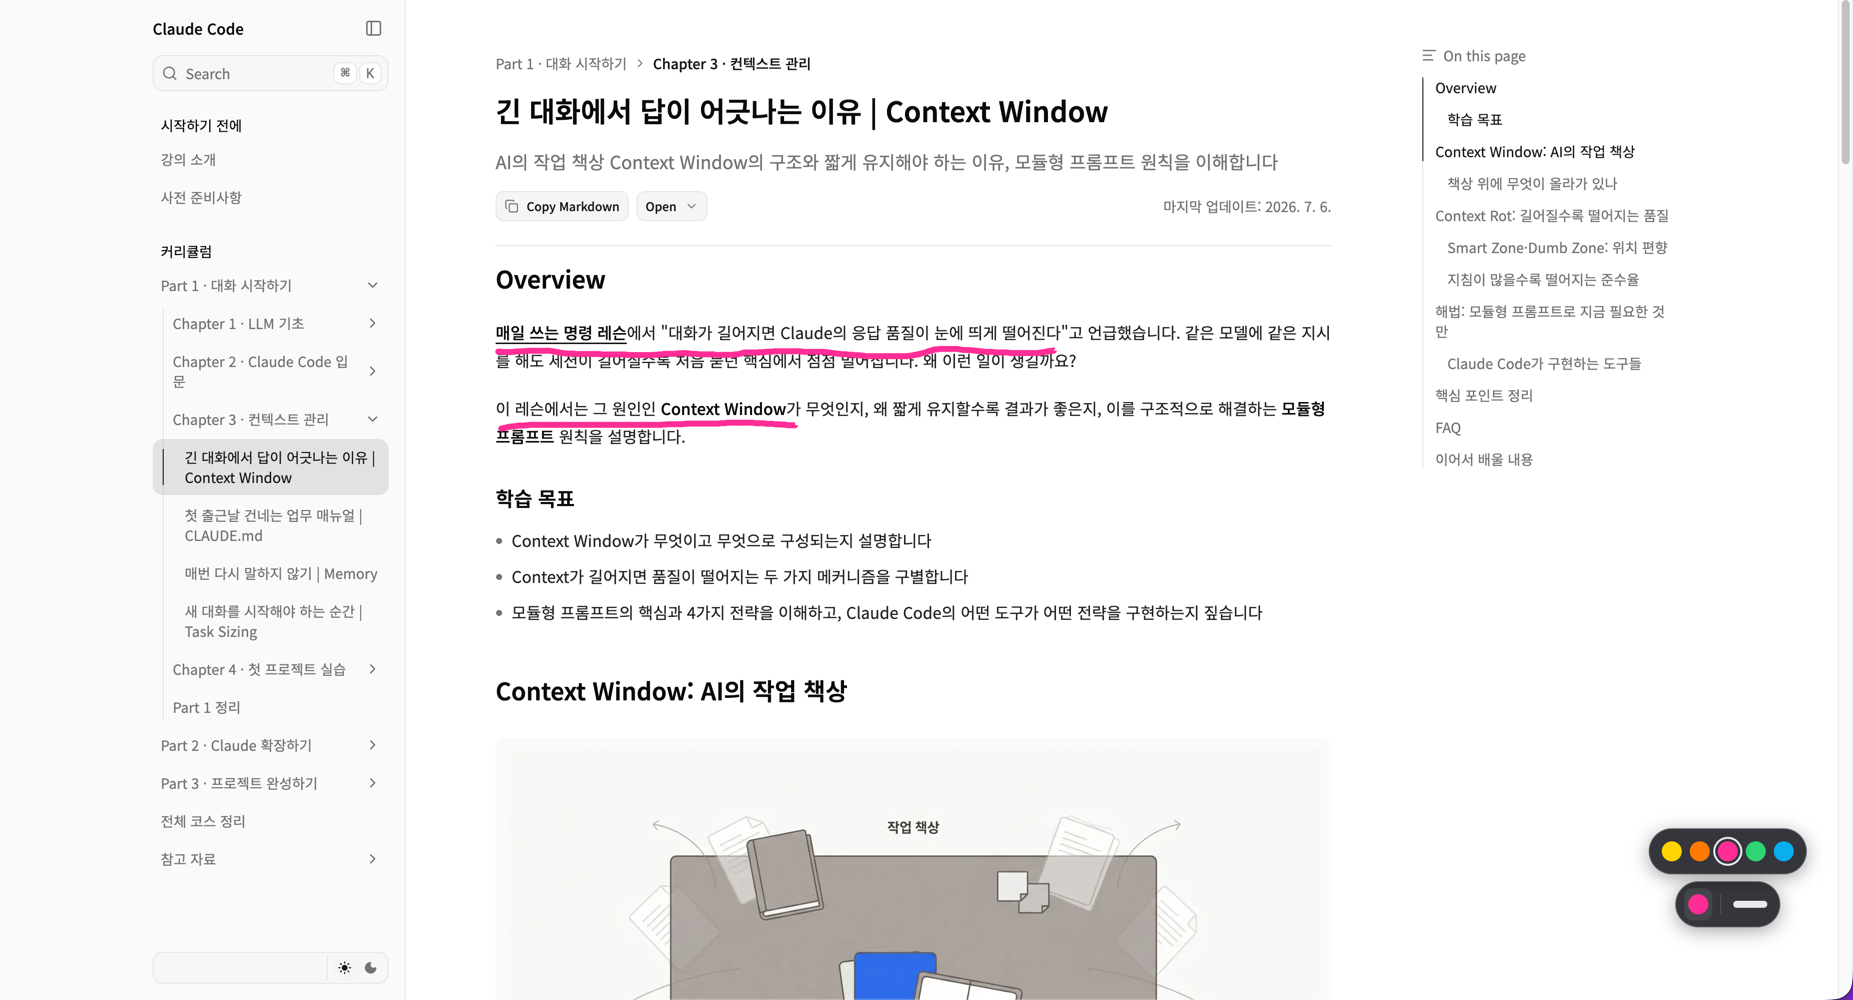
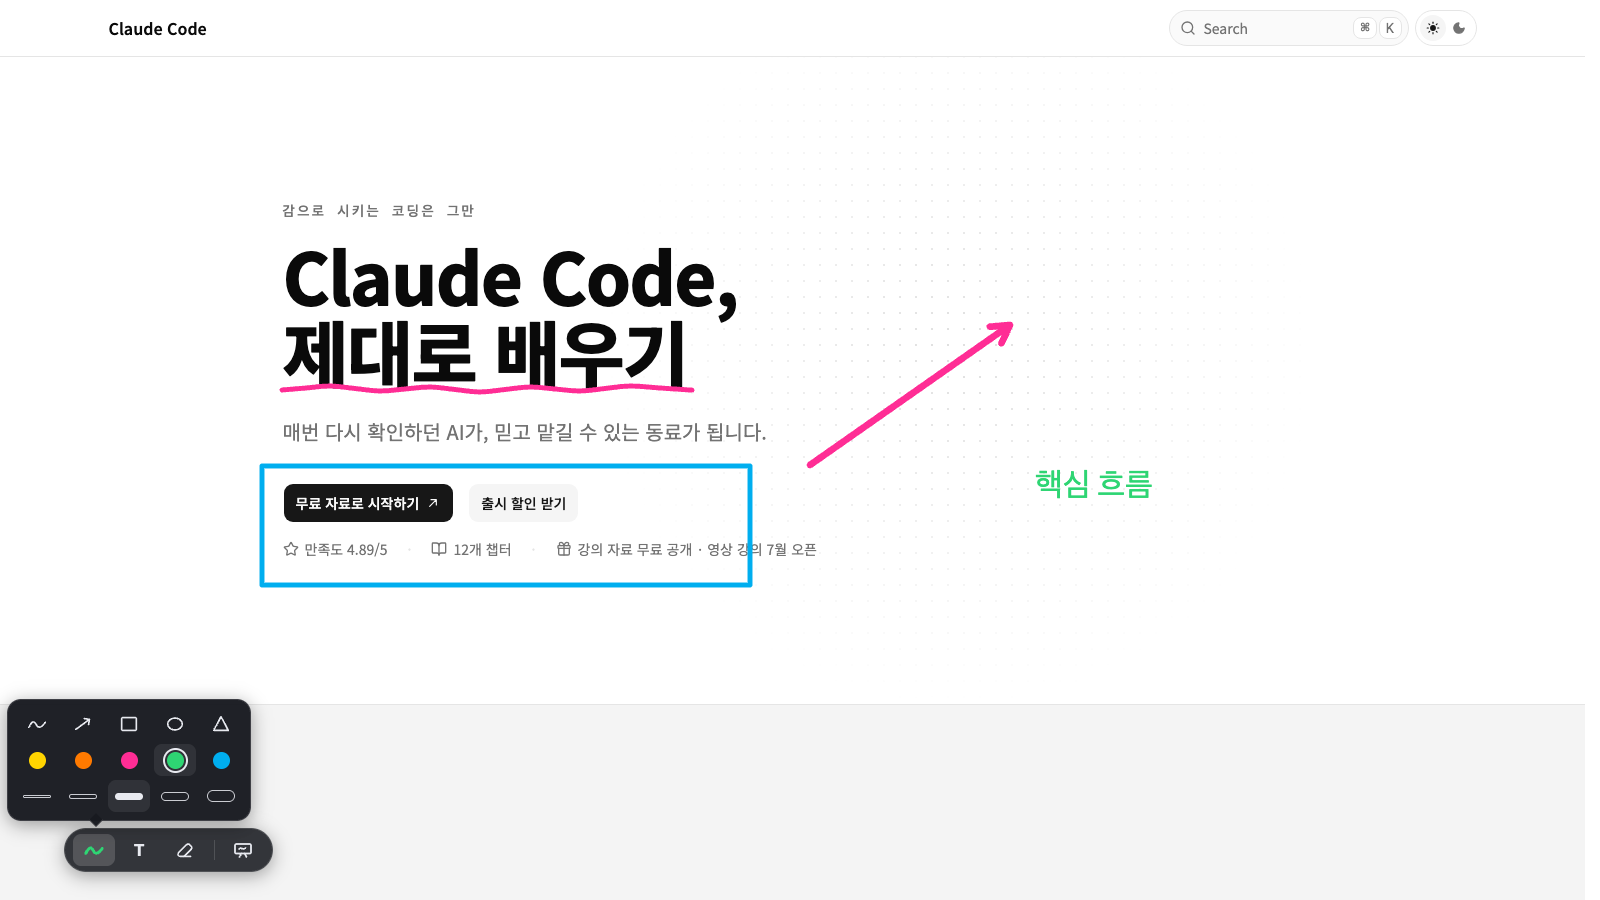
docs: refresh README for v0.2.0

diff --git a/README.md b/README.md
@@ -1,60 +1,106 @@
 # Arrowly
 
-화면 녹화 중 화면 위에 바로 그리는 macOS 주석 오버레이입니다.
-펜 하나로 밑줄·동그라미·화살표를 긋고, 설명이 끝나면 지웁니다.
+화면을 바꾸지 않고, 보고 있는 곳에 바로 설명하는 macOS 주석 오버레이입니다.
+자유곡선·화살표·도형·텍스트로 표시하고, 잘못 놓은 마크는 즉시 옮기거나 지운 뒤 설명이 끝나면 화면을 비웁니다.
 
-![Arrowly](docs/assets/cover.png)
+[최신 버전 다운로드](https://github.com/toy-crane/arrowly/releases/latest) · macOS universal (Apple Silicon + Intel)
+
+![docs.claude-hunt.com 위에서 실행한 Arrowly](docs/assets/demo.png)
+
+_실제 사용 예시는 [docs.claude-hunt.com](https://docs.claude-hunt.com) 위에서 촬영했습니다._
 
 ## 설치
 
-[Releases](https://github.com/toy-crane/arrowly/releases)에서 최신 DMG를 받아 Arrowly를 Applications 폴더로 옮깁니다.
+1. [Releases](https://github.com/toy-crane/arrowly/releases/latest)에서 `Arrowly_0.2.0_universal.dmg`를 받습니다.
+2. DMG를 열고 Arrowly를 **Applications** 폴더로 옮깁니다.
+3. Arrowly를 실행하면 메뉴바에 아이콘이 나타나고 약 20초의 첫 사용 튜토리얼이 열립니다.
 
-베타 빌드는 서명이 없어 첫 실행 시 경고가 뜹니다. 한 번만 허용하면 됩니다:
+v0.2.0은 Developer ID 서명과 Apple 공증을 마친 빌드라 별도의 보안 예외 없이 실행됩니다. 접근성 권한도 요구하지 않습니다.
 
-- macOS 15 이상: 시스템 설정 → 개인정보 보호 및 보안 → 하단 **그래도 열기**
-- macOS 14 이하: 앱 우클릭 → **열기**
+## 30초 만에 시작하기
 
-## 사용법
+1. `⌥Tab`을 눌러 커서가 있는 화면에서 그리기를 시작합니다.
+2. 마우스로 자유롭게 그리고, 좌하단 플로팅 마커에서 화살표·도형·색·굵기·텍스트를 고릅니다.
+3. `Esc`를 눌러 원래 화면으로 돌아갑니다.
 
-| 키 | 동작 |
+그리기를 끝내면 마크는 삭제되지 않고 잠시 숨습니다. `⌥Tab`으로 다시 들어오면 복원되며, 현재 장면을 완전히 비우려면 `⌥⌫`을 누릅니다.
+
+## 주요 기능
+
+### 자유롭게 그리고 정확하게 보정
+
+- 자유곡선을 빠르게 그리거나, 획 끝에서 잠시 멈춰 직선·사각형·타원·삼각형으로 보정합니다.
+- 화살표·사각형·타원·삼각형 도구를 직접 골라 같은 형태를 연속으로 그릴 수 있습니다.
+- 잉크는 5가지 색과 5단계 굵기를 지원합니다. `⌘+`·`⌘−`로 현재 도구 크기를 바로 바꿀 수 있습니다.
+- `T`를 누르고 클릭하면 텍스트를 쓰며, 기존 텍스트는 어떤 도구를 사용 중이든 더블클릭해 내용과 크기를 고칠 수 있습니다.
+
+### 마크를 옮기고 필요한 것만 삭제
+
+펜·텍스트·화살표·도형을 모두 `⌘` 드래그로 옮길 수 있습니다. `⌘`을 잠시 누르면 이동할 수 있는 마크가 한꺼번에 드러나고, `⌥` 클릭은 마크 하나를 즉시 지웁니다. 여러 마크를 이어서 지울 때는 `E`로 마크 삭제 도구를 잠급니다.
+
+![Command 키를 누른 마크 이동 탐색 상태](docs/assets/mark-actions.png)
+
+### 설명에 필요한 순간 기능
+
+- **블랙보드** — `⇧⌥Tab`으로 현재 마크를 유지한 채 배경만 검게 전환합니다.
+- **포인터 핑** — 빈 곳이나 텍스트가 아닌 마크를 더블클릭하면 500ms 동안 노란 표시가 퍼지고 흔적은 남지 않습니다.
+- **Undo/Redo** — 새 마크, 이동, 텍스트 교정, 삭제를 `⌘Z`·`⇧⌘Z`로 되돌리고 되살립니다.
+- **포커스 유지** — 전체화면 앱 위에서도 동작하며, 그리는 동안 아래 앱은 활성 상태를 유지합니다.
+- **인터랙티브 온보딩** — 첫 실행에서 그리기, 이동, 삭제, 되돌리기, 전체 지우기와 안전하게 끝내는 방법을 직접 연습합니다.
+- **메뉴바 유틸** — 평소에는 Dock을 차지하지 않습니다. 로그인 시 실행, 마커 숨기기, 단축키 설정, 튜토리얼 다시 보기를 메뉴바에서 관리합니다.
+
+## 조작 한눈에 보기
+
+| 조작 | 동작 |
 |---|---|
-| ⌥Tab | 그리기 켜기 / 끄기 |
-| ⇧⌥Tab | 블랙보드 열기 / 전환 |
-| ⌘Z / ⇧⌘Z | 획 취소 / 되살리기 |
-| ⌥⌫ | 전체 지우기 |
-| T → 클릭 / 빈 곳 더블클릭 | 텍스트 입력 |
-| Shift+Enter | 텍스트 입력 중 줄바꿈 |
-| T → 기존 텍스트 드래그 | 텍스트 이동 |
-| ⌘+ / ⌘− | 편집 중 텍스트 크기 변경 |
-| Esc | 텍스트 편집 종료 → 다시 누르면 그리기 종료 |
+| `⌥Tab` | 그리기 시작·끝내기 |
+| `⇧⌥Tab` | 블랙보드 켜기·끄기 |
+| `⌥⌫` | 마크 모두 지우기 |
+| `T` → 클릭 | 새 텍스트 쓰기 |
+| 기존 텍스트 더블클릭 | 텍스트 내용·크기 교정 |
+| `Shift+Enter` | 텍스트 입력 중 줄바꿈 |
+| `Enter` / 바깥 클릭 | 텍스트 확정 |
+| `⌘` + 마크 드래그 | 마크 하나 옮기기 |
+| `⌥` + 마크 클릭 | 마크 하나 지우기 |
+| `E` | 마크 삭제 도구 잠금·해제 |
+| 빈 곳 더블클릭 | 포인터 핑 |
+| 자유곡선 끝에서 잠시 유지 | 직선·도형 보정 |
+| `⌘Z` / `⇧⌘Z` | 되돌리기 / 다시 실행 |
+| `⌘+` / `⌘−` | 현재 도구 굵기 또는 텍스트 크기 조절 |
+| `Esc` | 텍스트 편집 종료 → 다시 누르면 그리기 종료 |
 
-![Arrowly 사용 모습](docs/assets/demo.png)
+`⌥Tab`, `⇧⌥Tab`, `⌥⌫`, `T`는 **단축키와 제스처** 설정에서 바꿀 수 있습니다. 나머지는 항상 같은 고정 조작입니다.
 
-- 그리기 중 좌하단 마커에서 색·펜 굵기·텍스트 크기를 각각 5단계로 바꿉니다. 드래그로 옮길 수 있습니다.
-- 기존 텍스트를 더블클릭하면 내용과 크기를 다시 고칠 수 있습니다. T를 누른 뒤 드래그하면 위치를 옮길 수 있으며 색은 유지됩니다.
-- 그리기를 끄면 그림은 숨겨지고, 다시 켜면 복원됩니다. 삭제는 ⌘Z·⌥⌫로만 됩니다.
-- 그리기·블랙보드·전체 지우기·텍스트 단축키 변경, 마커 숨기기, 튜토리얼 다시 보기는 메뉴바 아이콘 메뉴에 있습니다.
-- 접근성 권한이 필요 없습니다. 그리는 동안에도 아래 앱은 활성 상태로 유지됩니다.
+## 현재 범위와 제약
 
-## 제약 (오픈 베타)
+- macOS 전용이며 Apple Silicon과 Intel을 모두 지원합니다.
+- 그리기를 시작할 때 커서가 있는 모니터 하나만 덮습니다.
+- 마크는 화면 좌표에 남으므로 아래 화면의 스크롤이나 창 이동을 따라가지 않습니다.
+- 마크 저장·불러오기, 여러 페이지, 여러 마크 동시 선택은 제공하지 않습니다.
+- 앱을 재시작하면 마크와 블랙보드 상태가 초기화됩니다.
+- 자동 업데이트가 없어 새 버전은 Releases에서 다시 받아야 합니다.
 
-- macOS 전용 (Apple Silicon · Intel universal)
-- 커서가 있는 모니터 1개만 덮습니다
-- 그림은 정지 화면 기준입니다 — 아래 화면 스크롤을 따라가지 않습니다
-- 자동 업데이트가 없습니다
-
-버그·의견: [Issues](https://github.com/toy-crane/arrowly/issues)
+버그와 제안은 [Issues](https://github.com/toy-crane/arrowly/issues)에 남겨주세요.
 
 ## 개발
 
+Rust와 Bun, Xcode Command Line Tools가 필요합니다.
+
 ```bash
 bun install
-bun tauri dev
-# 기존 설정을 보존한 채 온보딩만 다시 시작
+
+# 네이티브 macOS 앱 실행
+bun run tauri dev
+
+# 온보딩부터 다시 실행
 bun run tauri:fresh
-# 테스트·커버리지·빌드 전체 검증
+
+# 의존 경계·프런트/Rust 커버리지·빌드 전체 검증
 bun run test:all
 ```
 
-Tauri v2 + React/TypeScript + Bun.
-제품 경계 [docs/specs/product-boundary/spec.md](docs/specs/product-boundary/spec.md) · 기능 스펙 [docs/specs](docs/specs) · 릴리스 절차 [docs/RELEASE.md](docs/RELEASE.md)
+Arrowly는 Tauri v2 + React/TypeScript + Bun으로 만듭니다.
+
+- 제품 경계: [docs/specs/product-boundary/spec.md](docs/specs/product-boundary/spec.md)
+- 기능 스펙: [docs/specs](docs/specs)
+- 릴리스 절차: [docs/RELEASE.md](docs/RELEASE.md)